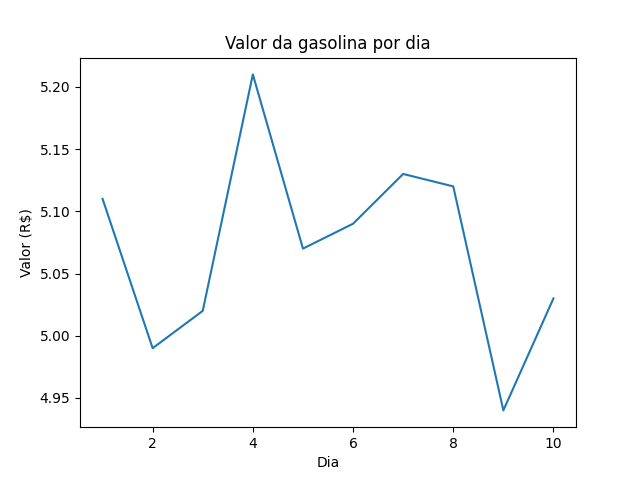
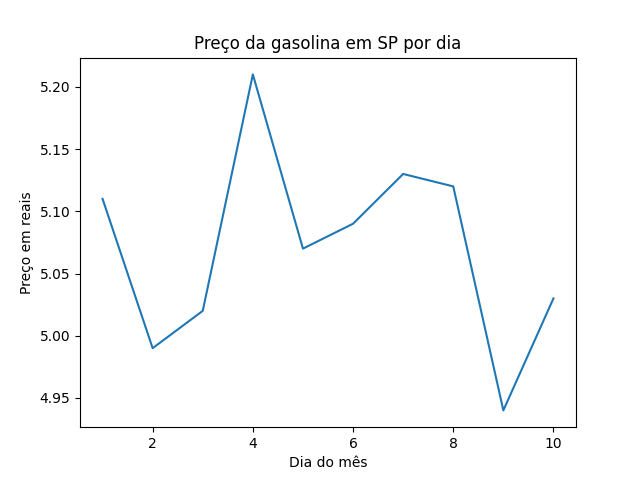
Alterando os arquivos csv, png e o código base na branch develop

Changed region(s): [[0.2812, 0.0625, 0.7188, 0.125], [0.0312, 0.4062, 0.0625, 0.625], [0.4375, 0.9375, 0.5625, 1.0]]

diff --git a/gasolina.py b/gasolina.py
@@ -1,3 +1,5 @@
+# código de geração do gráfico 
+
 import seaborn as sns
 import pandas as pd
 import matplotlib.pyplot as plt
@@ -5,5 +7,5 @@ import matplotlib.pyplot as plt
 data = pd.read_csv('gasolina.csv')
 
 grafico = sns.lineplot(data=data, x='dia', y='venda')
-grafico.set(title='Valor da gasolina por dia', xlabel='Dia', ylabel='Valor (R$)')
+grafico.set(title='Preço da gasolina em SP por dia', xlabel='Dia do mês', ylabel='Preço em reais')
 plt.savefig('gasolina.png')
